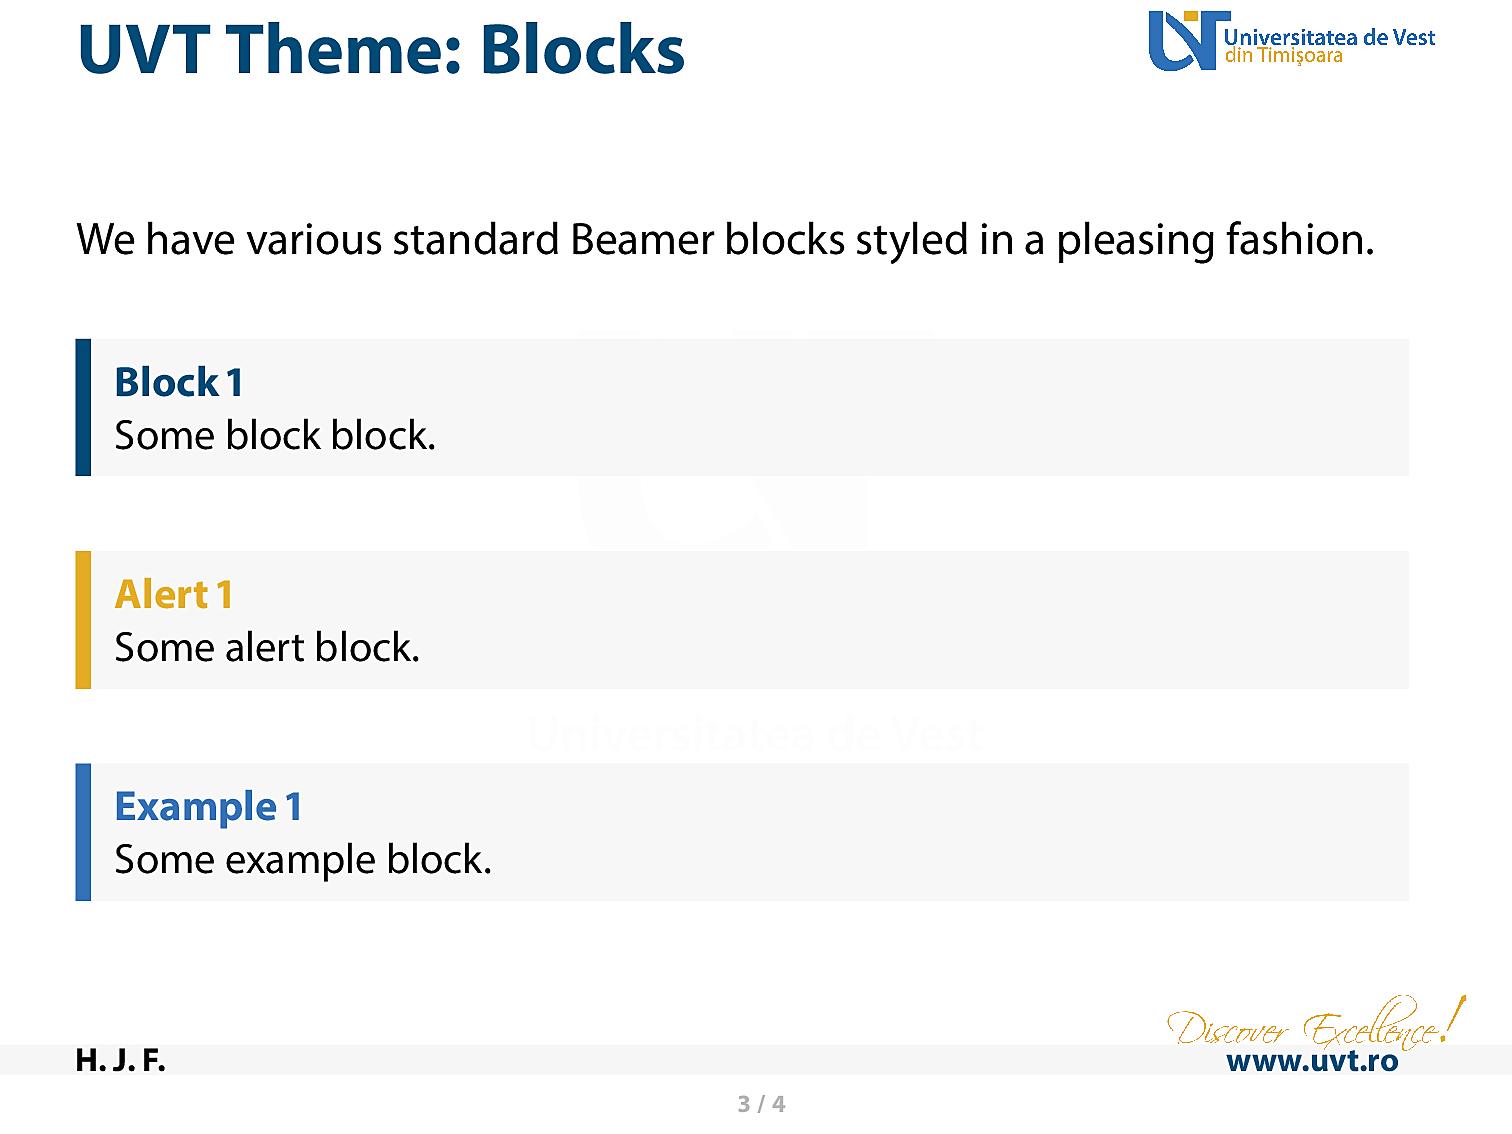
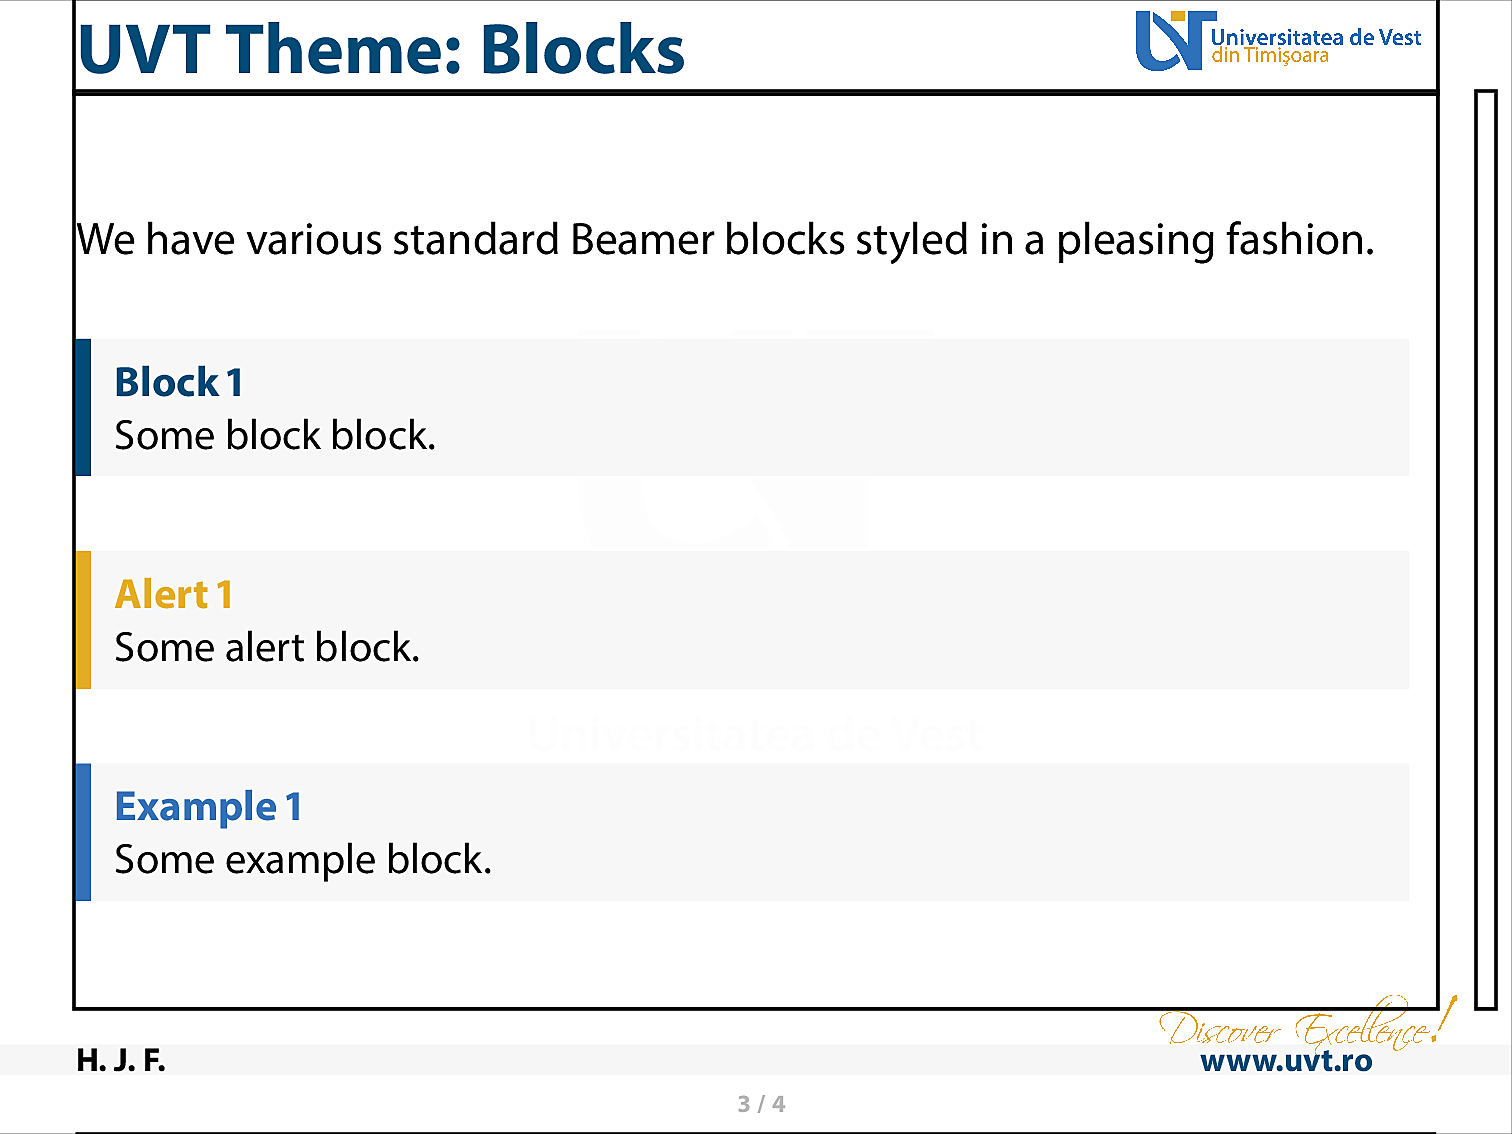
feat: update and document options

diff --git a/template.tex b/template.tex
@@ -1,5 +1,6 @@
 \documentclass[aspectratio=43]{beamer}
 \usepackage[romanian]{babel}
+\usepackage{showframe}
 
 % <<< BEGIN theme
 
@@ -10,6 +11,9 @@
 
 % set how hidden items are displayed: invisible / transparent / dynamic
 \setbeamercovered{transparent}
+
+% use a different font
+% \usepackage{helvet}
 
 % >>> END
 
@@ -120,7 +124,6 @@ Some example block.
     \item[UVT] And describe our university in exquisite detail, so that we
         can capture all its multiline greatness!
 \end{description}
-
 \end{frame}
 
 \end{document}

diff --git a/README.md b/README.md
@@ -1,13 +1,29 @@
 # UVT Beamer Theme
 
-This is a reproduction of the UVT (West University of Timișoara) Power Point in
-Latex. It uses the UVT [branding](https://dci.uvt.ro/identitate-vizuala)
+This is a reproduction of the UVT (West University of Timișoara) Power Point
+template in LaTeX. It uses the UVT [branding](https://dci.uvt.ro/identitate-vizuala)
 and is based on the example given in the
 [Official Manual](https://www.dci.uvt.ro/wp-content/uploads/2019/03/MANUAL-IDENTITATE-NEW-WEB-FINAL-2016-.pdf).
+As the example in the official branding manual is not very friendly to scientific
+presentations, this theme will probably take some liberties with it.
 
-This theme is very much a **work in progress** at the moment. As the example in
-the official branding manual is not very friendly to scientific presentations,
-this theme will probably take some liberties with it.
+This template style is fairly complete and working well, but any feature requests
+or bug reports to improve it are **very welcome**!
+
+## How to use it
+
+Copy the `beamerthemeuvt.sty` and the accompanying `sty` files to your local
+directory together with any relevant assets from the `assets` folder. You can also
+use the `template.tex` to get you started with a few useful options and examples.
+Modify `template.tex` as appropriate and build with `pdflatex` (or `xelatex` or
+`lualatex` for the adventurous).
+
+The package defines the following options used as `\usetheme[opts]{uvt}`.
+
+| Option                            | Description                           |
+| :-                                | :-                                    |
+| `nomyriadpro`                     | Do not load the *Myriad Pro* fonts    |
+| `layoutgrid`                      | Adds a debug grid to check alignment  |
 
 ## Fonts
 
@@ -21,6 +37,11 @@ for some reason), it can be disabled with the `nomyriadpro` option. In general,
 we recommend using a free sans serif font instead, e.g `\usepackage{helvet}` for
 the Helvetica look-alike Nimbus Sans L or `\usepackage{paratype}` for the PT Sans
 fonts that resemble Myriad Pro better.
+
+If you are using `XeLaTeX` or `LuaLaTeX`, there are many other nice fonts to
+keep in mind that would work well. For example: Carlito (a Calibri clone),
+Caladea (a Cambria clone), Montserrat (inspired by Gotham), Adobe Source Sans,
+etc. A nice font will always make your presentation look nicer!
 
 ## What it looks like
 
